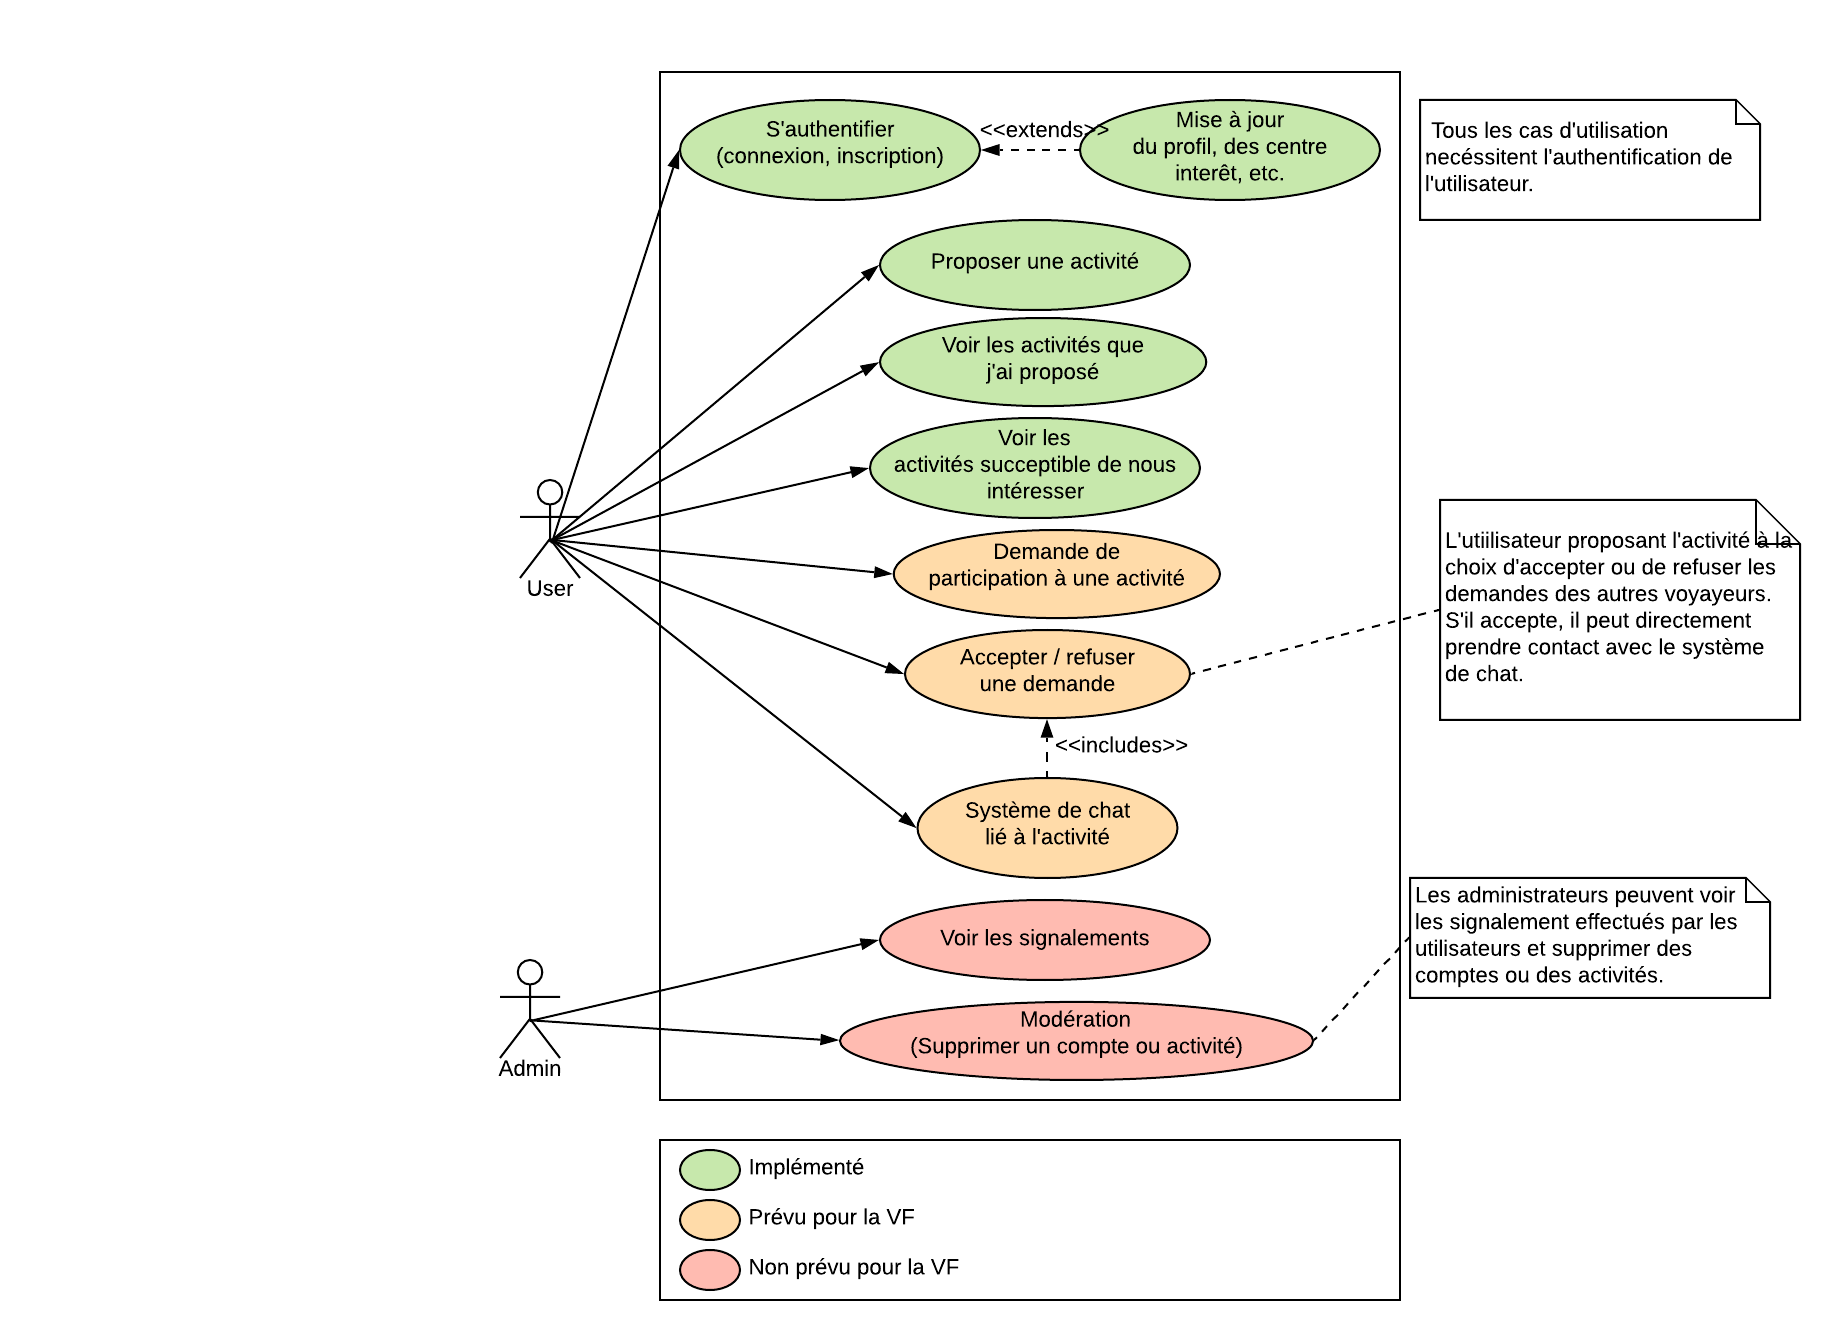
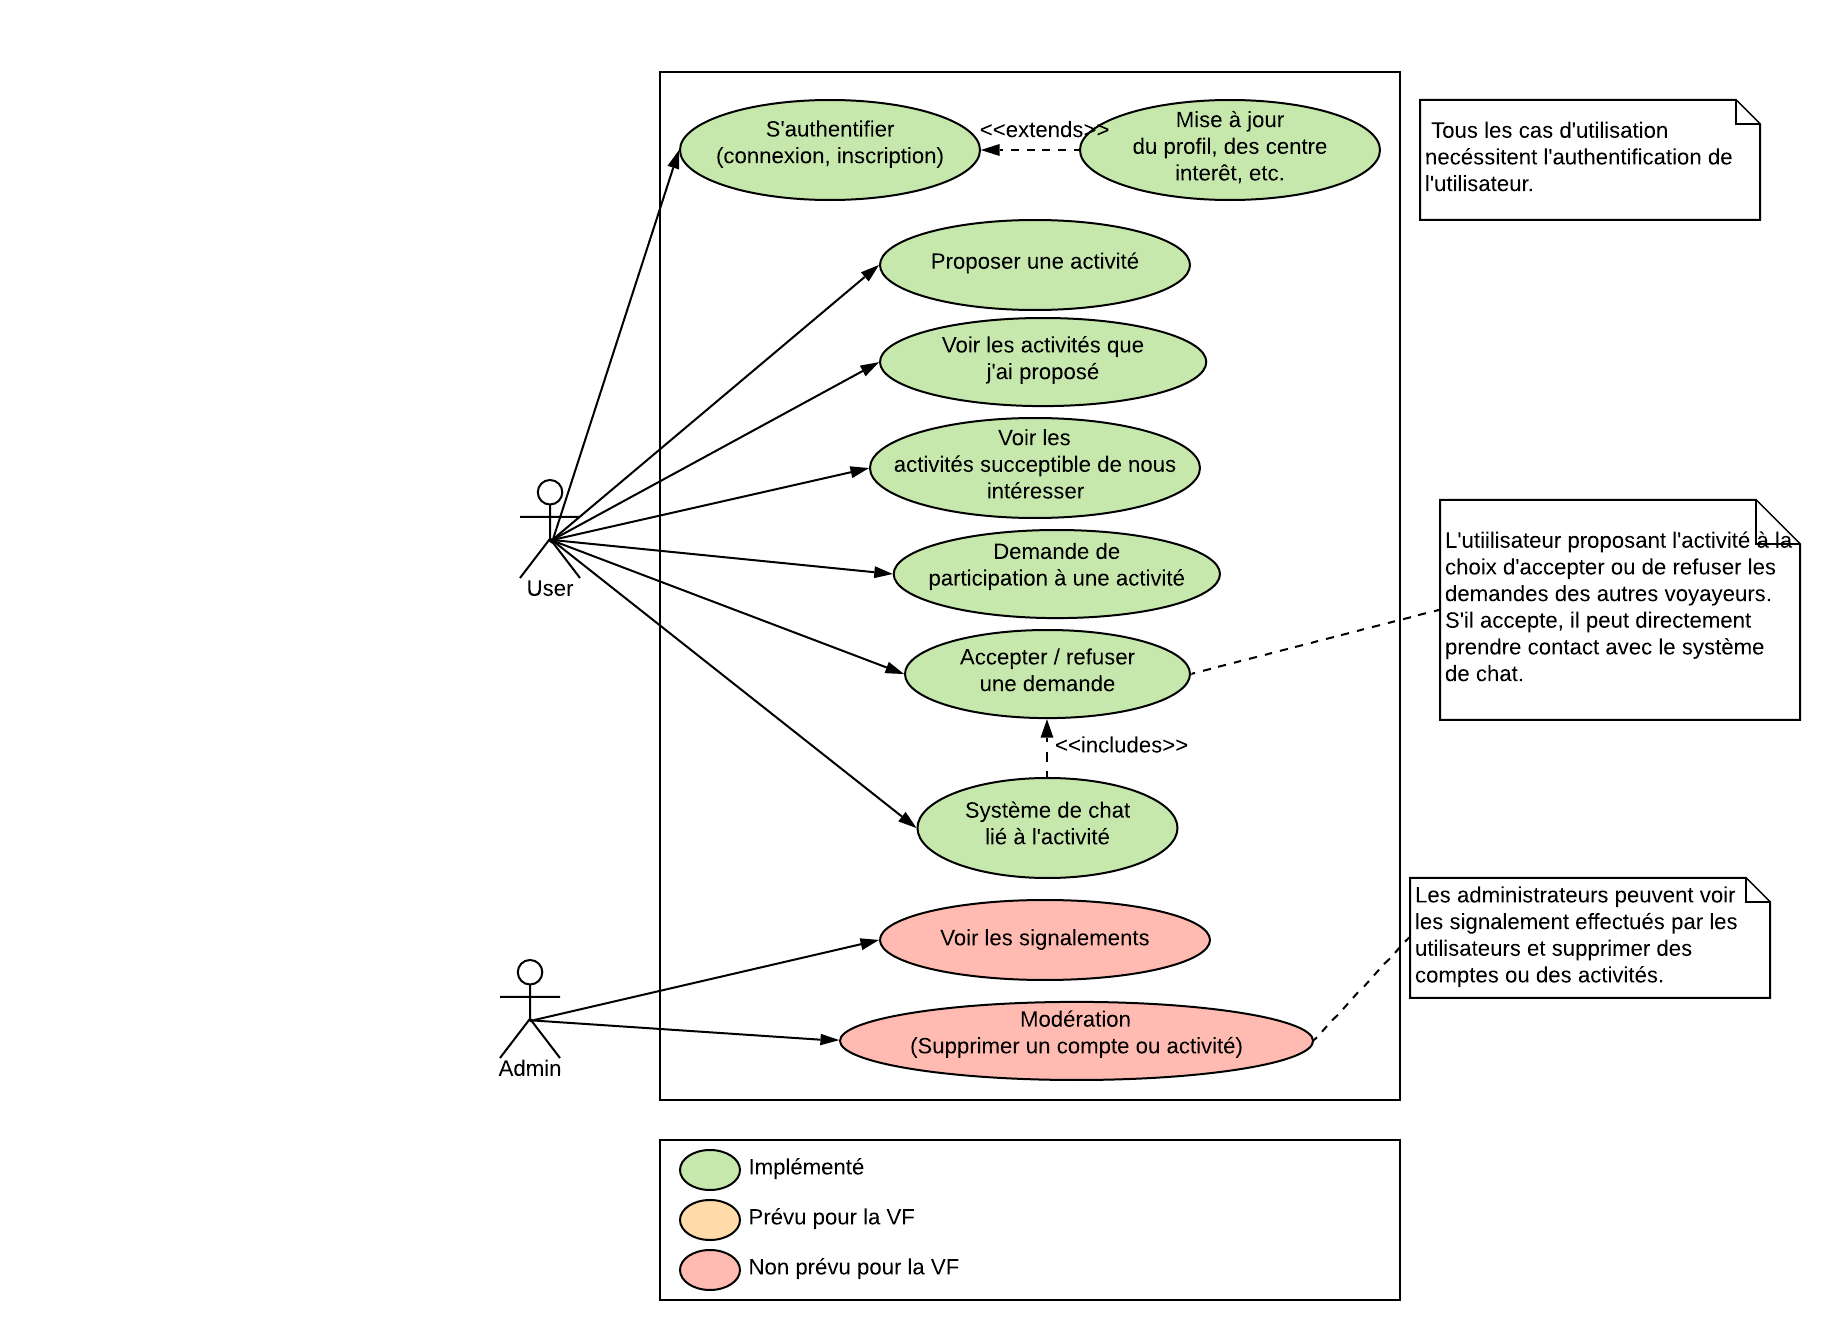
Update readme

Changed region(s): [[0.4957, 0.3978, 0.6815, 0.5507], [0.4957, 0.5813, 0.6505, 0.6731]]

diff --git a/README.md b/README.md
@@ -9,6 +9,7 @@ Trare is a social network application for connecting travellers who want to do a
 - [x] Explore activities
 - [x] View an activity
 - [x] Add new activities
+- [x] System for connecting users (activity chats, "I'm interested" butto, etc)
 
 <table style="border: none;">
 <tr><td>
@@ -57,9 +58,9 @@ Trare is a social network application for connecting travellers who want to do a
 
 ## What's next ?
 ![](documents/src/use_case.png)
-- [ ] Add photo to the user profile
-- [ ] System for connecting users (activity chats, "I'm interested" button)
-- [ ] Ability to change the activity search parameters (radius, position)
+
+**All major planned features have been implemented. See the [issues](https://github.com/Romain-Guillot/Trare/issues) to be aware of the next minor enhancements planned.**
+
 
 ## How to contribute ?
 - Make sure to read the contributing guide: [`CONTIBUTING.md`](CONTRIBUTING.md)
